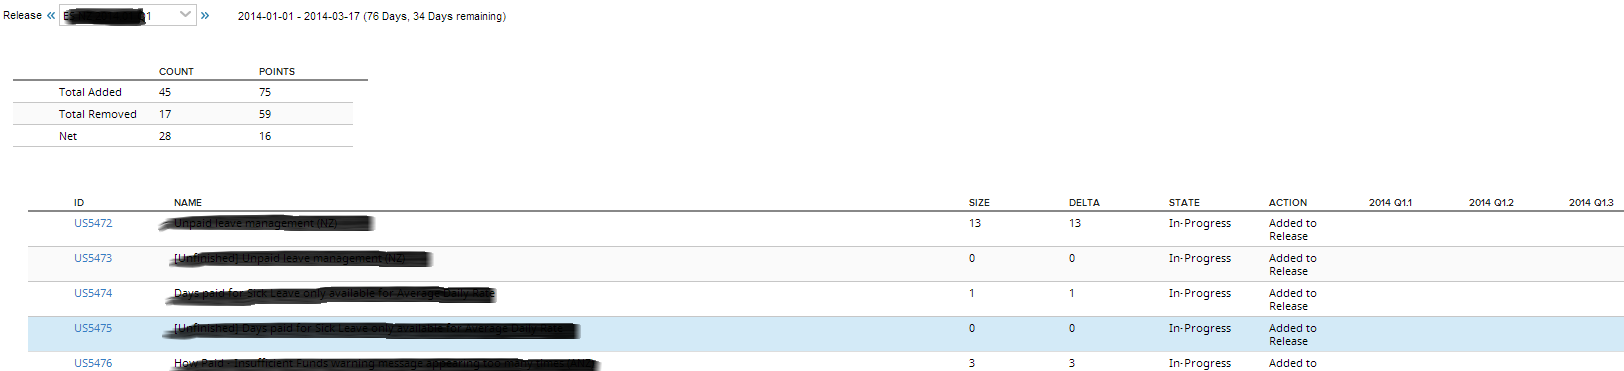
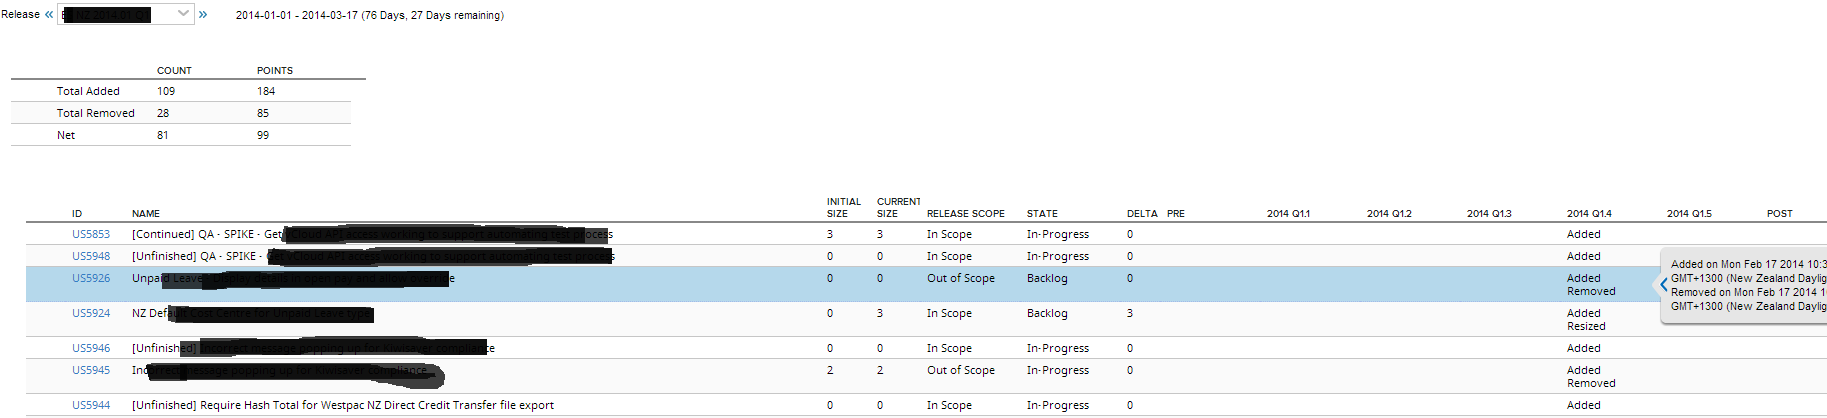
added release scope column, updated screenshot and readme. Started work on colourising rows based on scope.

Changed region(s): [[0.0, 0.4744, 1.0, 1.0], [0.0, 0.1482, 0.2155, 0.3854], [0.0, 0.0, 0.3079, 0.0889]]

diff --git a/src/javascript/app.js b/src/javascript/app.js
@@ -7,7 +7,7 @@ Ext.define('CustomApp', {
     visibleIterations: {},
     releaseStartDate: '',
     releaseEndDate: '',
-    iterationColumn: 7,
+    iterationColumn: 8,
 
     /* CM process for user stories and defects */
     /* TODO make this switchable between features and backlog items */
@@ -425,6 +425,7 @@ Ext.define('CustomApp', {
             var scheduleState = snap.get('ScheduleState');
             var state = snap.get('State');
             var combinedState = scheduleState;
+
             if (state != "")
                 combinedState += " (" + state + ")";
 
@@ -435,6 +436,8 @@ Ext.define('CustomApp', {
             if ( change_type === "Removed" ) {
                 size_difference = -1 * size_difference;
             }
+
+            var releaseScope = "In Scope";
             
             if ( change_type ) {
                 changes.push({
@@ -459,7 +462,8 @@ Ext.define('CustomApp', {
                     Estimate_Pre: "",
                     Estimate_Post: "",
                     Hover_Pre: "",
-                    Hover_Post: ""
+                    Hover_Post: "",
+                    ReleaseScope: releaseScope
                 });
                 if ( size_difference < 0 ) {
                     me.logger.log("Remove points ", change_type, size_difference, id);
@@ -577,6 +581,9 @@ Ext.define('CustomApp', {
             else if (entry.ChangeType == "Resized")
                 items[exists][hoverID] = existingHoverEntry + entry.ChangeType + " from " + (entry.PlanEstimate - entry.ChangeValue) + " to " + entry.PlanEstimate + " on " + displayDate;
 
+            // store latest change type
+            items[exists].ChangeType = entry.ChangeType;    
+
             // update iteraiton level plan estimates
             items[exists][estID] = entry.PlanEstimate;   
 
@@ -585,6 +592,13 @@ Ext.define('CustomApp', {
 
             // update delta totals
             items[exists].ChangeValue = entry.PlanEstimate - items[exists].InitialPlanEstimate;
+
+        });
+
+        // any post-processing on the items
+        items.forEach(function(item) {
+            if (item.ChangeType == "Removed")
+                item.ReleaseScope = "Out of Scope";
         });
 
         return items;
@@ -695,11 +709,17 @@ Ext.define('CustomApp', {
                 groupHeaderTpl: '{name}',
                 ftype: 'summary'
             }],
+            viewConfig: {
+                getRowClass: function(record, rowIndex, rp, ds){ 
+                    return 'x-grid-row-outofscope';
+                }
+            },         
             columnCfgs: [
                 {text:'id',dataIndex:'FormattedID', width: 60,renderer: id_renderer},
                 {text:'Name',dataIndex:'Name',flex:1},
                 {text:'Initial Size',dataIndex:'InitialPlanEstimate', width: 50, summaryType: 'sum'},                
                 {text:'Current Size',dataIndex:'PlanEstimate', width: 50, summaryType: 'sum'},
+                {text:'Release Scope', dataIndex: 'ReleaseScope'},
                 {text:'State', dataIndex: 'CombinedState'},
                 {text:'Delta',dataIndex:'ChangeValue', width: 40, summaryType: 'sum'},
                 {text:'Pre',dataIndex:'Iteration_Pre'},

diff --git a/src/style/app.css b/src/style/app.css
@@ -5,3 +5,6 @@
     right:0px;
     width:5%;
 }
+.x-grid-row-outofscope {
+	background-color: red;
+}

diff --git a/README.md b/README.md
@@ -4,6 +4,15 @@
 
 This is based on the standard Release Scope Change report. It has been updated to essentially pivot the data from the original and show a unique list of user stories/defects (backlog items), mapped onto the iterations that fall into the release.
 
+## Features
+
+- Unique story / defect list.
+- Displays start/final/delta in story points for each item
+- Shows changes (Added, Removed, Resized) per iteration for each item.
+- Only shows iterations that fall completely within the release start/end.
+- Deals with out of range dates or modified release end points with a pre-release and post-release column.
+- Extra details on hover/click within iterations.
+
 ## Screenshots
 
 ![screenshot of app](/screenshot.png)
